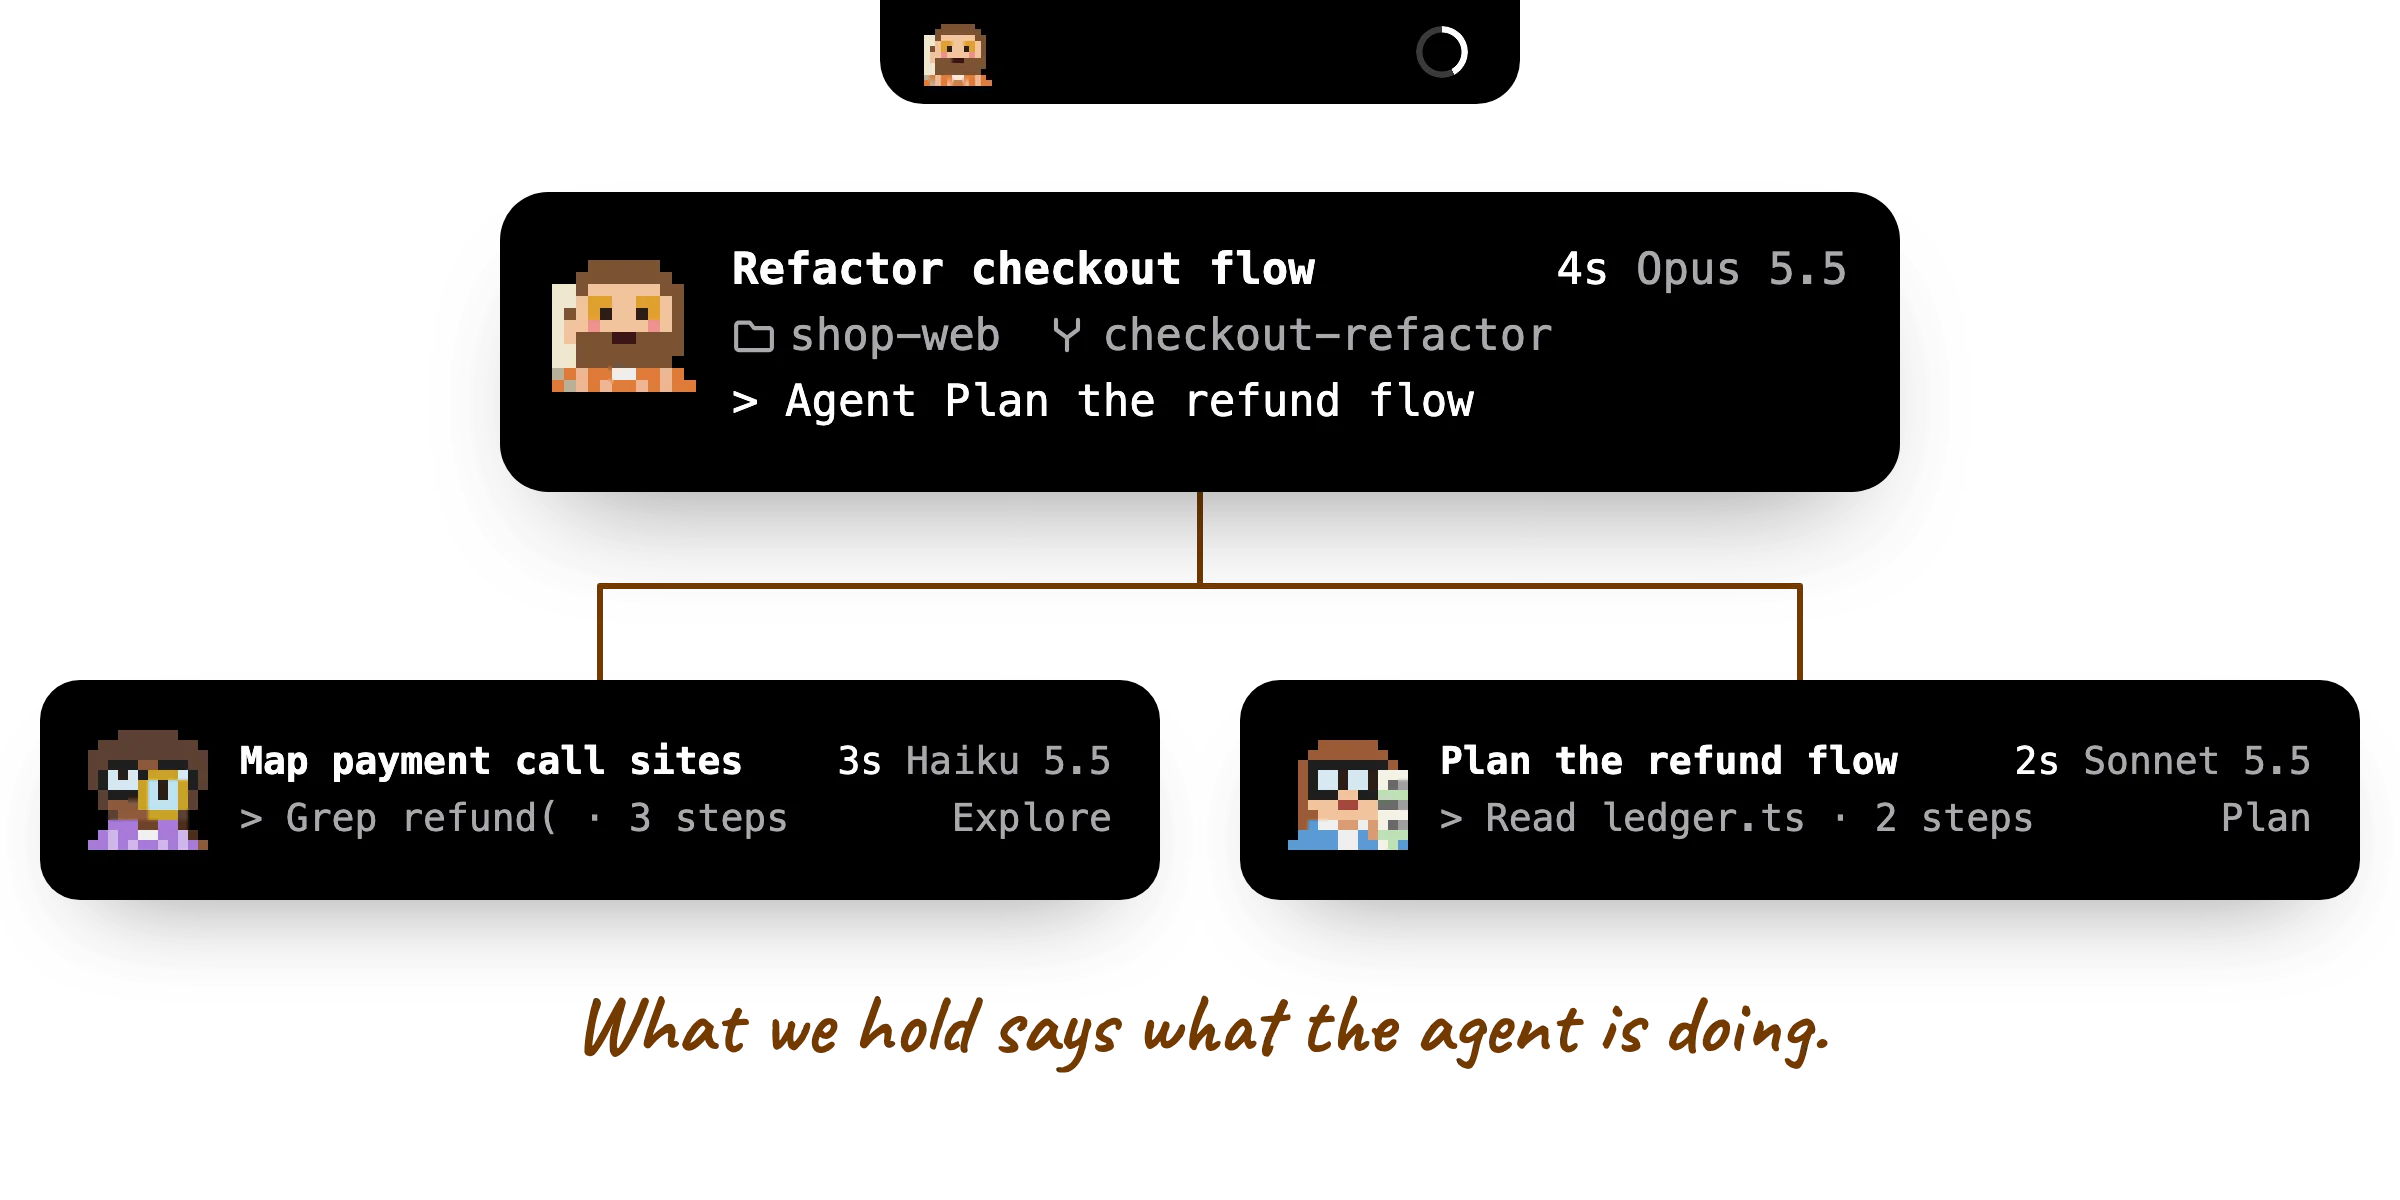
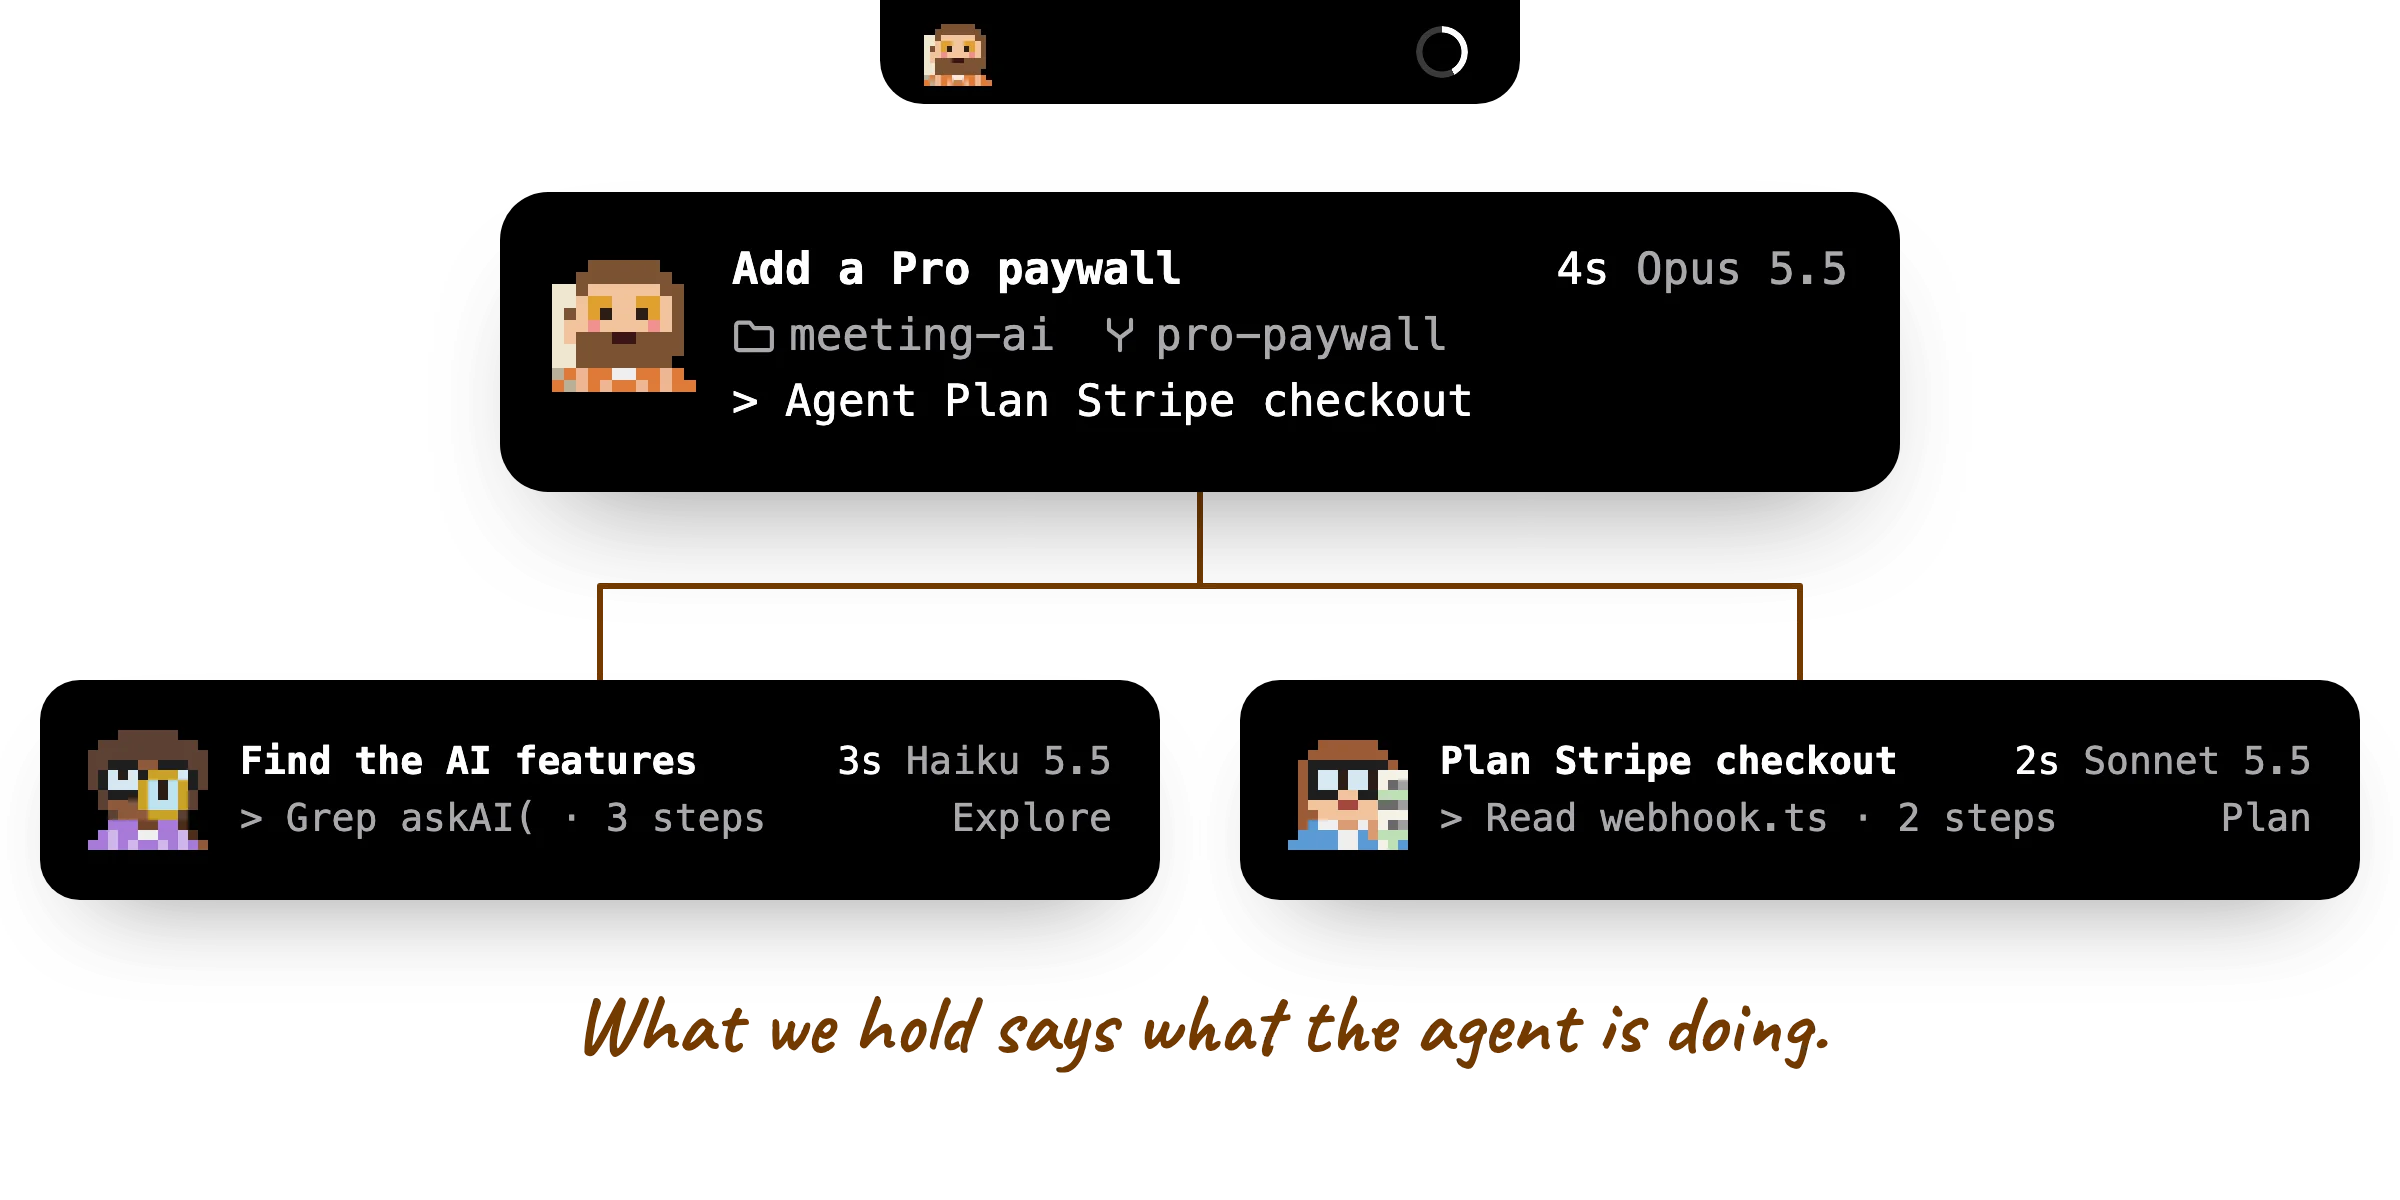
Website: the crew motion no longer shows its still through it; a paywall story

Changed region(s): [[0.3125, 0.2158, 0.6562, 0.37], [0.0938, 0.6167, 0.3438, 0.7092], [0.625, 0.6167, 0.8438, 0.7092]]

diff --git a/site/motion/crew-motion.tsx b/site/motion/crew-motion.tsx
@@ -103,15 +103,15 @@ const WIDE: Layout = {
 };
 const TALL: Layout = {
   W: 640,
-  H: 820,
+  H: 780,
   bar: { x: 200, w: 240, h: 44, face: 30 },
-  card: { x: 20, y: 72, w: 600, h: 200, face: 72, font: 24 },
+  card: { x: 20, y: 72, w: 600, h: 160, face: 72, font: 24 },
   desks: [
-    { x: 64, y: 330, w: 556, h: 140 },
-    { x: 64, y: 500, w: 556, h: 140 },
+    { x: 64, y: 290, w: 556, h: 140 },
+    { x: 64, y: 460, w: 556, h: 140 },
   ],
   row: { face: 60, font: 22 },
-  notes: { high: 316, low: 690, size: 40 },
+  notes: { high: 276, low: 650, size: 40 },
   side: true,
 };
 const config = (l: Layout) => ({ width: l.W, height: l.H, fps: FPS, durationInFrames: T.end }) as const;
@@ -129,56 +129,59 @@ type Agent = {
 };
 const SUNNY: Agent = {
   who: 'guru',
-  task: 'Refactor checkout flow',
+  task: 'Add a Pro paywall',
   model: 'Opus 5.5',
   start: T.open,
   done: T.done,
   steps: [
     [T.open, null, 'thinking'],
-    [T.callFaye, 'Agent Map payment call sites', 'calling'],
-    [T.callJudy, 'Agent Plan the refund flow', 'calling'],
-    [T.callFelix, 'Agent Write cart total tests', 'calling'],
-    [at(10.3), 'Edit checkout.tsx', 'typing'],
+    [T.callFaye, 'Agent Find the AI features', 'calling'],
+    [T.callJudy, 'Agent Plan Stripe checkout', 'calling'],
+    [T.callFelix, 'Agent Write paywall tests', 'calling'],
+    [at(10.3), 'Edit Paywall.tsx', 'typing'],
     [at(11.2), 'Bash npm test', 'running'],
   ],
 };
+// The session's project and branch, under its name on the card.
+const PROJECT = 'meeting-ai';
+const BRANCH = 'pro-paywall';
 const FAYE: Agent = {
   who: 'afro',
-  task: 'Map payment call sites',
+  task: 'Find the AI features',
   model: 'Haiku 5.5',
   type: 'Explore',
   start: T.callFaye + s(0.25),
   done: T.fayeDone,
   steps: [
-    [T.callFaye + s(0.25), 'Grep PaymentIntent', 'searching'],
-    [at(2.3), 'Read checkout.ts', 'reading'],
-    [at(3.3), 'Grep refund(', 'searching'],
-    [at(4.2), 'Read refunds.ts', 'reading'],
+    [T.callFaye + s(0.25), 'Grep summarize(', 'searching'],
+    [at(2.3), 'Read notes.ts', 'reading'],
+    [at(3.3), 'Grep askAI(', 'searching'],
+    [at(4.2), 'Read chat.ts', 'reading'],
   ],
 };
 const JUDY: Agent = {
   who: 'coder',
-  task: 'Plan the refund flow',
+  task: 'Plan Stripe checkout',
   model: 'Sonnet 5.5',
   type: 'Plan',
   start: T.callJudy + s(0.25),
   done: T.judyDone,
   steps: [
     [T.callJudy + s(0.25), null, 'thinking'],
-    [at(2.7), 'Read refunds.ts', 'reading'],
-    [at(3.6), 'Read ledger.ts', 'reading'],
-    [at(4.6), 'Grep Refund', 'searching'],
+    [at(2.7), 'Read pricing.ts', 'reading'],
+    [at(3.6), 'Read webhook.ts', 'reading'],
+    [at(4.6), 'Grep isPro', 'searching'],
   ],
 };
 const FELIX: Agent = {
   who: 'beatnik',
-  task: 'Write cart total tests',
+  task: 'Write paywall tests',
   model: 'Sonnet 5.5',
   start: T.callFelix + s(0.25),
   done: T.felixDone,
   steps: [
-    [T.callFelix + s(0.25), 'Edit cart.test.ts', 'typing'],
-    [at(7.6), 'Edit cart.test.ts', 'typing'],
+    [T.callFelix + s(0.25), 'Edit paywall.test.ts', 'typing'],
+    [at(7.6), 'Edit paywall.test.ts', 'typing'],
     [at(8.4), 'Bash npm test', 'running'],
   ],
 };
@@ -189,7 +192,7 @@ const NOTES: readonly (readonly [from: number, to: number, text: string])[] = [
   [at(1.4), at(2.9), 'He phones Faye and Judy for help.'],
   [at(3), at(6.2), 'What we hold says what the agent is doing.'],
   [at(6.6), at(10.1), 'Felix writes the tests and runs them.'],
-  [at(10.45), at(12.3), 'Sunny finishes the change himself.'],
+  [at(10.45), at(12.3), 'Sunny builds the paywall himself.'],
   [at(12.4), at(14.6), 'Done. Nothing running? Just a cup of coffee.'],
 ];
 
@@ -425,9 +428,9 @@ const Card: React.FC<{ l: Layout; f: number; file: File }> = ({ l, f, file }) =>
         </Line>
         <div style={{ display: 'flex', alignItems: 'center', color: DIM }}>
           <Folder />
-          <span style={{ marginRight: '1em' }}>shop-web</span>
+          <span style={{ marginRight: '1em' }}>{PROJECT}</span>
           <Branch />
-          checkout-refactor
+          {BRANCH}
         </div>
         <div style={{ display: 'flex' }}>
           <Ticker f={f} agent={SUNNY} />

diff --git a/site/components/sections/crew.tsx b/site/components/sections/crew.tsx
@@ -12,11 +12,11 @@ export function Crew() {
       <figure
         className="c-figure mt-10"
         role="img"
-        aria-label="One session at work, drawn as an org chart. Sunny runs it and phones two sub-agents: Faye searches the code and Judy plans. Each row shows its latest step, and each face holds what its agent is doing. Then Felix writes the tests and runs them, Sunny finishes the change, and the session ends with a cup of coffee."
+        aria-label="One session at work, drawn as an org chart. Sunny adds a Pro paywall to an AI meeting notes app and phones two sub-agents: Faye finds the AI features and Judy plans the Stripe checkout. Each row shows its latest step, and each face holds what its agent is doing. Then Felix writes the paywall tests and runs them, Sunny builds the paywall, and the session ends with a cup of coffee."
       >
         {/* The source's media is NARROW in crew-loop.tsx. */}
         <picture>
-          <source media="(max-width: 640px)" srcSet="/crew/still-tall.webp" width={1280} height={1640} />
+          <source media="(max-width: 640px)" srcSet="/crew/still-tall.webp" width={1280} height={1560} />
           <img className="c-still" src="/crew/still.webp" width={2400} height={1200} alt="" loading="lazy" decoding="async" />
         </picture>
         <CrewLoop />

diff --git a/site/app/set-pieces.css b/site/app/set-pieces.css
@@ -315,6 +315,8 @@ html{scroll-padding-top:80px}
 .c-figure{position:relative;margin:0}
 .c-still{display:block;width:100%;height:auto}
 .c-player{position:absolute;inset:0}
+/* The player has no paper, so the still under it goes; it keeps its place for the figure's height. */
+.c-figure:has(.c-player) .c-still{visibility:hidden}
 
 /* A word explained in Words on this page: dotted, in the text's own colour, so a sentence keeps its look. */
 a.w{color:inherit;text-decoration:underline dotted 1px color-mix(in srgb,currentColor var(--w-line),transparent);text-underline-offset:3px}

diff --git a/site/e2e/crew.spec.ts b/site/e2e/crew.spec.ts
@@ -28,6 +28,8 @@ test.describe('where the page may move', () => {
   test('the motion plays over the still, and Stop leaves the still', async ({ page }) => {
     await reach(page);
     await page.locator('.c-player').waitFor();
+    // The player has no paper of its own: a still left showing would double every note and line.
+    await expect(page.locator('.c-still')).toBeHidden();
     const first = await page.locator('.c-figure').screenshot();
     await page.waitForTimeout(1500);
     expect(first.equals(await page.locator('.c-figure').screenshot())).toBe(false);

diff --git a/README.md b/README.md
@@ -135,9 +135,9 @@ While the agent works, we hold what it's on. Six seconds in hand, two to put it 
 </tr>
 </table>
 
-One session from start to finish: Sunny phones Faye and Judy for help, Felix writes the tests and runs them, and Sunny finishes the change himself.
+One session from start to finish: Sunny adds a Pro paywall to an AI meeting notes app. He phones Faye and Judy for help, Felix writes the tests and runs them, and Sunny builds the paywall himself.
 
-<p align="center"><img src="docs/crew.gif" alt="One session at work, drawn as an org chart. Sunny runs it and phones two sub-agents: Faye searches the code and Judy plans. Each row shows its latest step, and each face holds what its agent is doing. Then Felix writes the tests and runs them, Sunny finishes the change, and the session ends with a cup of coffee." width="600"></p>
+<p align="center"><img src="docs/crew.gif" alt="One session at work, drawn as an org chart. Sunny adds a Pro paywall to an AI meeting notes app and phones two sub-agents: Faye finds the AI features and Judy plans the Stripe checkout. Each row shows its latest step, and each face holds what its agent is doing. Then Felix writes the paywall tests and runs them, Sunny builds the paywall, and the session ends with a cup of coffee." width="600"></p>
 
 ## The Valley Funnies
 
